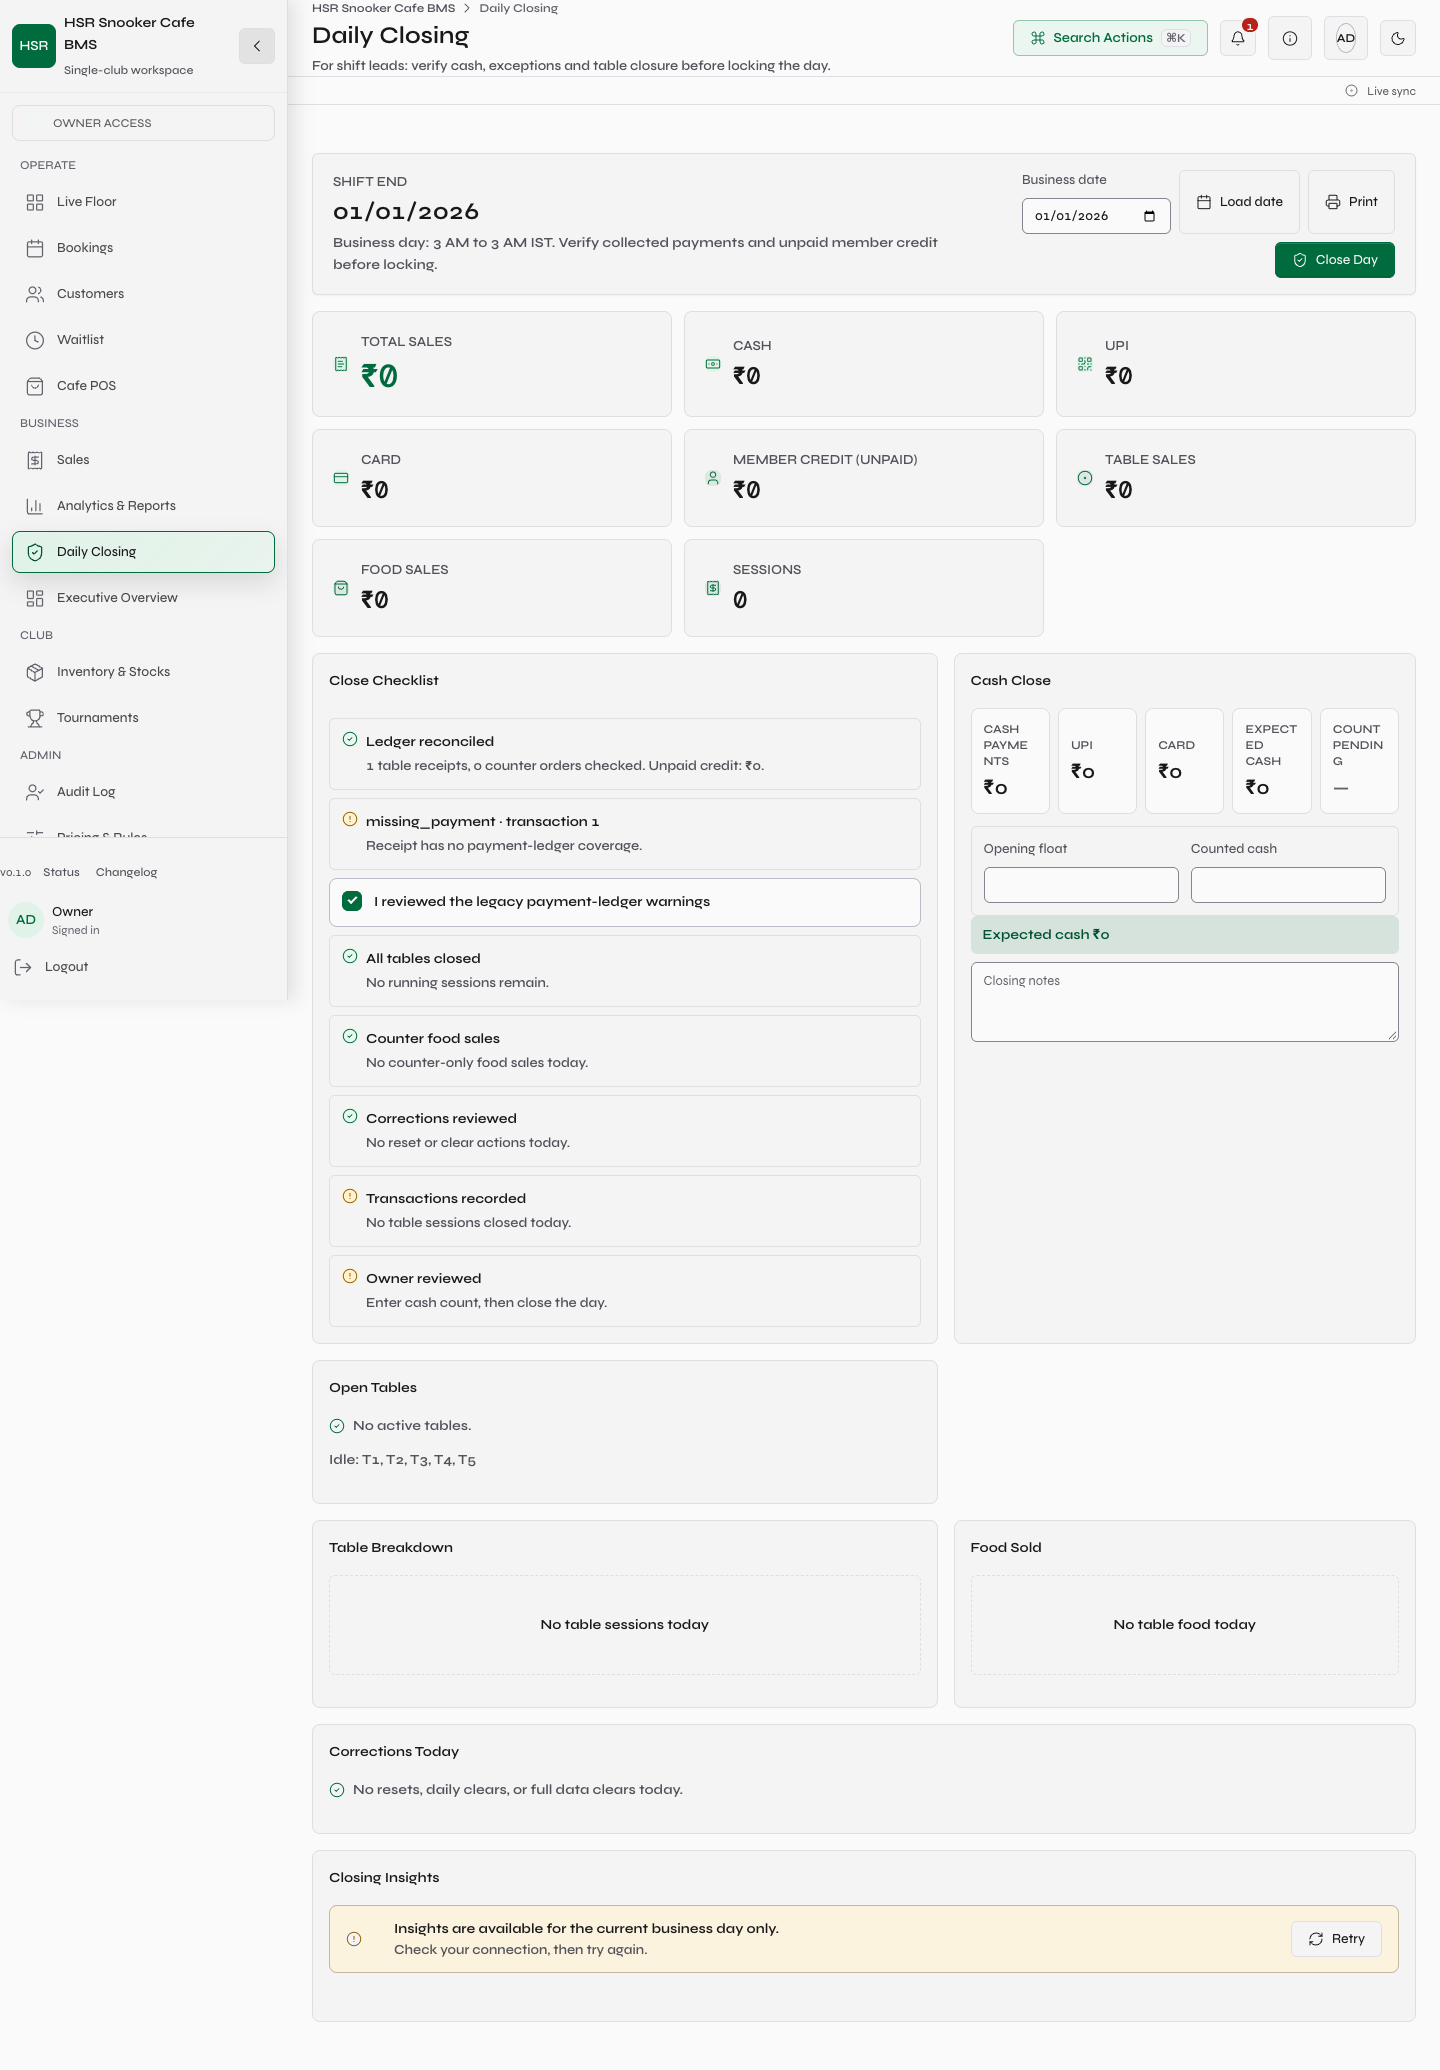
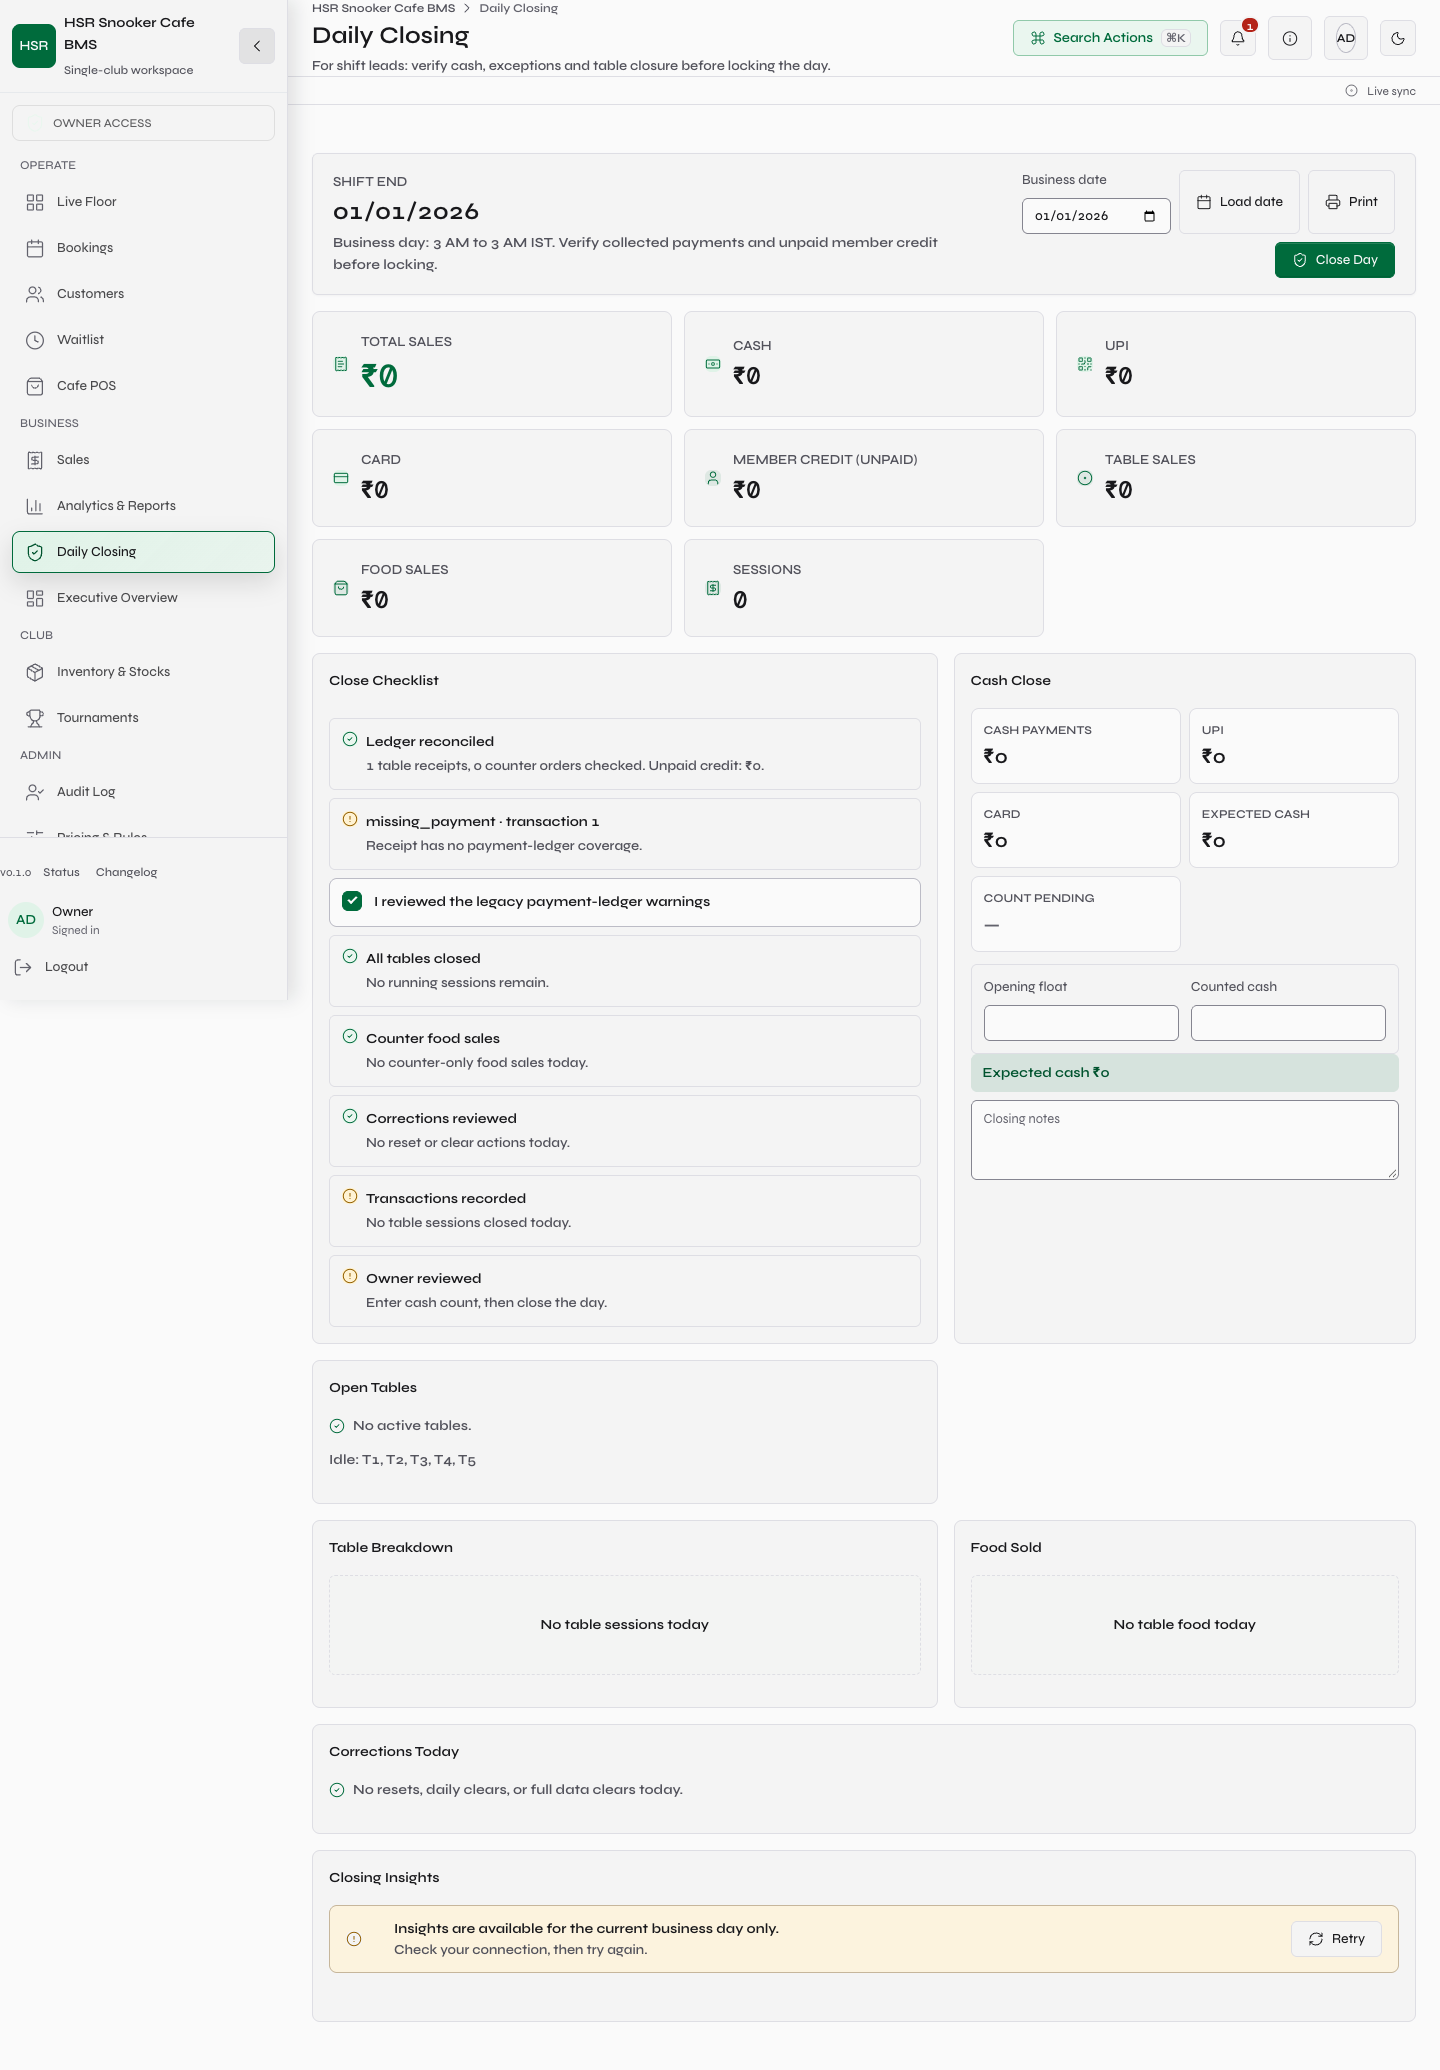
Keep closing totals readable and gate financial client checks

Changed region(s): [[0.6562, 0.3401, 0.9688, 0.5565], [0.9062, 0.3401, 0.9375, 0.371]]

diff --git a/frontend/src/style.css b/frontend/src/style.css
@@ -13413,7 +13413,7 @@ body.dark .backend-status-banner.is-connecting {
 
 .closing-payment-audit {
   display: grid;
-  grid-template-columns: repeat(5, minmax(0, 1fr));
+  grid-template-columns: repeat(auto-fit, minmax(min(100%, 140px), 1fr));
   gap: var(--space-2);
   margin-bottom: var(--space-3);
 }
@@ -13460,12 +13460,6 @@ body.dark .backend-status-banner.is-connecting {
 
 .closing-payment-audit .pending strong {
   color: var(--text-muted);
-}
-
-@media (max-width: 900px) {
-  .closing-payment-audit {
-    grid-template-columns: repeat(auto-fit, minmax(min(100%, 140px), 1fr));
-  }
 }
 
 .closing-payment-audit > div,

diff --git a/docs/daily-use-readiness/phase-2/README.md b/docs/daily-use-readiness/phase-2/README.md
@@ -26,7 +26,8 @@ and CreditLedger foreign keys/unique receipt links are tested on PostgreSQL;
 SQLite now explicitly enforces its declared foreign keys too.
 
 The reusable money suite is part of both the parity workflow and local readiness
-runner. The original checkpoint/baseline logs remain historical evidence, not the
+runner. The workflow also gates frontend financial-intent/recovery tests, lint
+and build on frontend changes. The original checkpoint/baseline logs remain historical evidence, not the
 final result. See final evidence below.
 
 ## Scope and decisions
